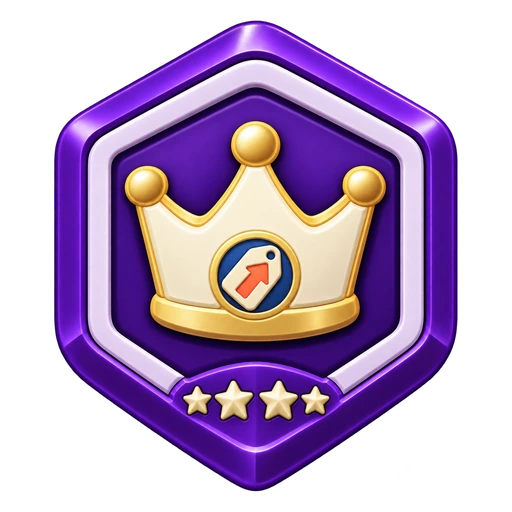
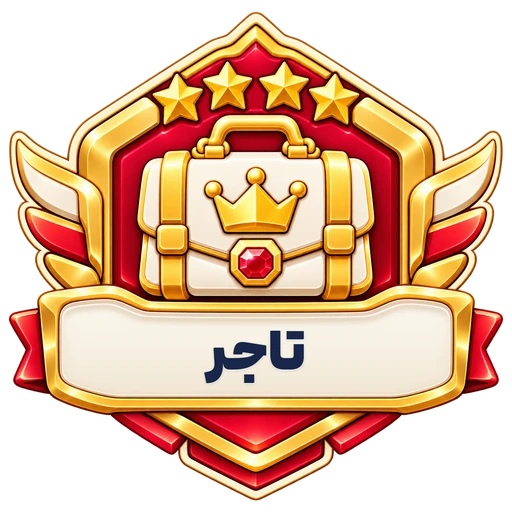
Play: badges-v3 in the game — قیمتشناس/تریدر/بازاری/تاجر art, no plates or name captions
- Checkpoints 5/10/15/20 use the owner's badges-v3 art (title inside the art), in star order:
  قیمتشناس ★, تریدر ★★, بازاری ★★★, تاجر ★★★★. Simulator titles renamed to match.
- No white card, plate or frame behind any badge; no name caption under it (alt text carries it;
  a failed image shows the title in a quiet tile).
- G04: «نشان {title} رو گرفتی!», next goal «{n} جواب درست تا {next} شدن», reward as a glass chip
  so it never reads as the yellow «ادامه بده».
- End 2: the badge image only. The «از x درصد…» line now uses the checkpoint's own
  comparisonPercent from config (50/70/90/99) instead of a placeholder.
- Share card: badge art without the frame or title plate.

Claude-Session: https://claude.ai/code/session_017xw4hEhMfbdKqsT1Ws2Qcb

diff --git a/src/views.js b/src/views.js
@@ -13,18 +13,19 @@ const SPIN = '<span class="q-spin" aria-hidden="true"></span>';
 /** Official DigiCoin asset downloaded from Digikala's own static asset endpoint. */
 export const COIN = '<img class="q-coin" src="assets/digicoin-game.svg" width="24" height="23" alt="" aria-hidden="true">';
 export const TAG = '<img class="q-logomark" src="assets/game-logo.webp" width="40" height="56" alt="" aria-hidden="true">';
-// ?v=2: the 2026-10-25 artwork reuses the old file names, so a cached old badge is never mistaken for the new one
-export const BADGE_SRC = id => `assets/badges/${encodeURIComponent(id)}.webp?v=2`;
+// ?v=3: the badges-v3 artwork (title inside the art) reuses the old file names, so a cached old badge is never shown
+export const BADGE_SRC = id => `assets/badges/${encodeURIComponent(id)}.webp?v=3`;
 export const BADGES = ['badge_5', 'badge_10', 'badge_15', 'badge_20'];
 /** A checkpoint's badge image; an unknown id (a checkpoint added later in A02) gets the badge of its position. */
 export const badgeId = (c, i) => BADGES.includes(c.badgeAssetId) ? c.badgeAssetId : BADGES[Math.min(BADGES.length - 1, Math.max(0, i))];
 export const TIER = [['#087f73', '#edf9f5'], ['#3457d5', '#eff3ff'], ['#b96813', '#fff6e9'], ['#7950bf', '#f6f0ff']];   // badge manifest accents
-/** Badge card (handoff 2026-10-25): text-free emblem above, the exact title as real text below, one shared frame for all
- *  tiers. The square art slot is reserved before the image loads; a failed image leaves a quiet tile, the title stays. */
+/** Badge (owner 2026-10-25, badges-v3): the art carries its own title, so there is no frame, no white plate and no name
+ *  caption; the title is the image's alt text. The square slot is reserved before the image loads; a failed image leaves a
+ *  quiet tile with the title as text, so it is never an unexplained blank. */
 export function badge(c, i, cls = '', threshold = false) {
   const [a, t] = TIER[Math.min(TIER.length - 1, Math.max(0, i))];
-  return `<figure class="q-badgecard ${cls}" style="--badge-accent:${a};--badge-tint:${t}"><span class="q-badgecard__art"><img src="${BADGE_SRC(badgeId(c, i))}" width="512" height="512" alt="" decoding="async"></span>` +
-    `<figcaption><b>${esc(c.title)}</b>${threshold ? `<span>${fa(c.requiredCorrect)} جواب درست</span><span class="q-badgecard__reward${c.rewardAmount > 0 ? ' is-coin' : ''}">${c.rewardAmount > 0 ? `${fa(c.rewardAmount)} دیجیکوین جایزه` : 'فقط نشان'}</span>` : ''}</figcaption></figure>`;
+  return `<figure class="q-badgecard ${cls}" style="--badge-accent:${a};--badge-tint:${t}"><span class="q-badgecard__art" data-title="${esc(c.title)}"><img src="${BADGE_SRC(badgeId(c, i))}" width="512" height="512" alt="${esc(c.title)}" decoding="async"></span>` +
+    (threshold ? `<figcaption><span>${fa(c.requiredCorrect)} جواب درست</span><span class="q-badgecard__reward${c.rewardAmount > 0 ? ' is-coin' : ''}">${c.rewardAmount > 0 ? `${fa(c.rewardAmount)} دیجیکوین جایزه` : 'فقط نشان'}</span></figcaption>` : '') + '</figure>';
 }
 
 
@@ -181,8 +182,8 @@ export const TOUR = [
 ];
 const HAND = '<svg viewBox="0 0 48 48" width="44" height="44" aria-hidden="true"><path d="M18 22V9a4 4 0 0 1 8 0v11l9.6 1.6A5 5 0 0 1 40 27.5L38 39a6 6 0 0 1-6 5H22a6 6 0 0 1-4.8-2.4L9.5 31.3a3.6 3.6 0 0 1 5.2-5L18 29Z" fill="#fff"/><path d="M18 22V9a4 4 0 0 1 8 0v11l9.6 1.6A5 5 0 0 1 40 27.5L38 39a6 6 0 0 1-6 5H22a6 6 0 0 1-4.8-2.4L9.5 31.3a3.6 3.6 0 0 1 5.2-5L18 29Z" fill="none" stroke="#1d2a5c" stroke-width="2.4" stroke-linejoin="round"/></svg>';
 export function tour(still, from) {
-  const cps = [{ requiredCorrect: 1, rewardAmount: 0, badgeAssetId: 'badge_5', title: 'بازاری تازهکار' }, { requiredCorrect: 3, rewardAmount: 1, badgeAssetId: 'badge_10', title: 'بازاری قدیمی' },
-    { requiredCorrect: 6, rewardAmount: 3, badgeAssetId: 'badge_15', title: 'قیمتشناس حرفهای' }, { requiredCorrect: 10, rewardAmount: 5, badgeAssetId: 'badge_20', title: 'قیمتشناس اعظم' }];
+  const cps = [{ requiredCorrect: 1, rewardAmount: 0, badgeAssetId: 'badge_5', title: 'قیمتشناس' }, { requiredCorrect: 3, rewardAmount: 1, badgeAssetId: 'badge_10', title: 'تریدر' },
+    { requiredCorrect: 6, rewardAmount: 3, badgeAssetId: 'badge_15', title: 'بازاری' }, { requiredCorrect: 10, rewardAmount: 5, badgeAssetId: 'badge_20', title: 'تاجر' }];
   const ref = { displayTitle: 'ماگ سرامیکی', imageUrl: 'demo:first', art: DEMO_MUG, price: 245000 };
   const cmp = { displayTitle: 'هدفون بیسیم', imageUrl: 'demo:second', art: DEMO_HEADPHONES };
   const segs = TOUR.map(() => '<i><b></b></i>').join('');
@@ -315,14 +316,14 @@ export function leaveSheet(m) {
  * continue, no second «دریافت» step: the reward was registered by the server with the answer that crossed the line.
  */
 export function cpOverlay(c, index, reward, next) {
-  const head = `${esc(c.title)} رو گرفتی!`;   // factual: no population percentile is measured, so none is claimed
+  const head = `نشان ${esc(c.title)} رو گرفتی!`;   // factual: no population percentile is measured, so none is claimed
   const amount = c.rewardAmount > 0 ? c.rewardAmount : 0;
   const late = reward && reward.status === 'delayed' ? '<small>واریزش کمی طول میکشه</small>' : '';
   return `<div class="q-cp tier-${index}" role="dialog" aria-modal="true" aria-labelledby="cp-t" aria-describedby="cp-d"><div class="q-cp__in">` +
     `${badge(c,index,'q-cp__badge')}` +
     `<h2 class="q-cp__h" id="cp-t">${head}</h2><p class="q-cp__n" id="cp-d">${fa(c.requiredCorrect)} جواب درست دادی</p>` +
     (amount ? `<p class="q-cp__rw">${COIN}<span>${fa(amount)} دیجیکوین جایزه</span>${late}</p>` : '') +
-    `<p class="q-cp__next">${next ? `${fa(next.requiredCorrect - c.requiredCorrect)} جواب درست دیگه تا «${esc(next.title)}»` : 'همهی چکپوینتها رو گرفتی؛ دست ادامه داره.'}</p>` +
+    `<p class="q-cp__next">${next ? `${fa(next.requiredCorrect - c.requiredCorrect)} جواب درست تا ${esc(next.title)} شدن` : 'همهی چکپوینتها رو گرفتی؛ دست ادامه داره.'}</p>` +
     `</div><div class="q-foot">${PRIMARY('ادامه بده', ' data-act="cp-go"', I.fwd)}</div></div>`;
 }
 
@@ -368,7 +369,7 @@ export const dealsOf = list => (list?.items || []).filter(p => p.deal && (p.deal
 export function vEnd(m) {
   const rows = [`<div class="q-end__row"><span>امتیاز</span><b>${fa(m.score)}</b></div>`];
   if (!m.newRecord) rows.push(`<div class="q-end__row"><span>رکورد</span><b>${fa(m.best)}</b></div>`);
-  if (m.cp) rows.push(`<div class="q-end__row q-end__row--badge"><span>نشان</span><span class="q-end__badge"><img src="${BADGE_SRC(badgeId(m.cp, m.cpIndex))}" alt="" width="40" height="40"><b>${esc(m.cp.title)}</b></span></div>`);
+  if (m.cp) rows.push(`<div class="q-end__row q-end__row--badge"><span>نشان</span><span class="q-end__badge"><img src="${BADGE_SRC(badgeId(m.cp, m.cpIndex))}" alt="${esc(m.cp.title)}" width="64" height="64"></span></div>`);
   const better = m.better != null ? `<p class="q-end__better">از ${fa(m.better)} درصد دیجیکالاییها بهتری!</p>` : '';
   const deals = m.deals.slice(0, 4);
   const dealsSec = m.dealsState === 'ready' && !deals.length ? '' :

diff --git a/src/share.js b/src/share.js
@@ -1,6 +1,6 @@
 // Exact text is painted with the local font; shared cards never depend on catalog images or cross-origin canvas data.
 import { fa } from './fmt.js';
-import { BADGES, BADGE_SRC, TIER } from './views.js';
+import { BADGES, BADGE_SRC } from './views.js';
 export const GAME_URL = 'https://amasn-a.github.io/gheimat-shenas-play/';
 const load = src => new Promise((resolve,reject)=>{const im=new Image();im.onload=()=>resolve(im);im.onerror=reject;im.src=src;});
 const rounded = (c,x,y,w,h,r,fill)=>{c.fillStyle=fill;c.beginPath();c.roundRect(x,y,w,h,r);c.fill();};
@@ -24,11 +24,9 @@ export async function createShareCard({score,title,badgeAssetId}) {
   c.textAlign='center';c.fillStyle='#565a70';c.font='600 32px Digikala';c.fillText('نتیجهٔ این دست',sx,768);
   c.fillStyle='#15162c';c.font='800 142px Digikala';c.fillText(fa(score),sx,912);
   c.font='700 30px Digikala';c.fillText('جواب درست دادم',sx,975);
-  if(earned){   // the badge card: emblem above, the real title below, inside one frame (as in the game)
-    const [accent,tint]=TIER[Math.min(TIER.length-1,tier)];
-    rounded(c,640,704,330,376,32,tint);c.lineWidth=3;c.strokeStyle=accent;c.beginPath();c.roundRect(641.5,705.5,327,373,31);c.stroke();
-    if(mark)c.drawImage(mark,705,722,200,200);
-    rounded(c,662,944,286,112,22,'#ffffff');c.fillStyle='#15162c';let fs=32;do{c.font=`800 ${fs}px Digikala`;}while(c.measureText(title).width>254&&--fs>18);c.fillText(title,805,1012);
+  if(earned){   // badges-v3: the art carries its own title, so no frame or plate (as in the game); the title is drawn only if the art fails
+    if(mark)c.drawImage(mark,630,709,366,366);
+    else{c.fillStyle='#fff';let fs=40;do{c.font=`900 ${fs}px Digikala`;}while(c.measureText(title).width>320&&--fs>18);c.fillText(title,805,912);}
   }else if(!title){c.fillStyle='#cdd2f4';c.font='600 30px Digikala';c.fillText('تو چند تا قیمت رو درست حدس میزنی؟',540,1090);}
   else{rounded(c,260,1059,560,65,20,'#4055ed');c.fillStyle='#fff';c.font='800 31px Digikala';c.fillText(title,540,1103);}
   // shortcut: share-qr.png is a pre-made QR of GAME_URL; regenerate it if GAME_URL changes (the Super App build will use its own link)

diff --git a/src/game.js b/src/game.js
@@ -149,8 +149,6 @@ function lossScreen() {
   const under = (S.fb ? feedback() : S.ref && S.run ? ready() : '').replace('<div class="q-page', '<div inert class="q-page');
   return under + V.offerModal({ cost: S.offer ? S.offer.cost : cfg().continueRule.cost, balance: S.balance, state: S.ui.skipping ? 'ending' : st, left });
 }
-// shortcut: placeholder share per checkpoint position (owner 2026-10-25, prototype-only) until the real figures are supplied
-const BETTER = [50, 70, 85, 95];
 function endScreen() {
   const v = S.view, run = S.run, score = run ? run.score : 0, cost = S.offer ? S.offer.cost : cfg().continueRule.cost;
   const before = (S.boot && S.boot.record) || 0, newRecord = score > 0 && score > before;
@@ -160,7 +158,8 @@ function endScreen() {
     'G06.REFUNDED': V.status('ok', `ادامه ممکن نشد؛ ${fa(cost)} دیجیکوین به حسابت برگشت.`, 'check') }[v] || '';
   const R = S.result, code = R && R.campaignCode && R.campaignCode.status !== 'sold_out' ? V.codeCard(R.campaignCode, S.ui.codeState === 'copied') : '';
   return V.vEnd({ title: newRecord ? 'رکوردتو زدی!' : cp ? 'ترکوندی!' : 'باختی!', score, best: Math.max(R ? R.record : 0, before, score), newRecord,
-    cp, cpIndex: ci, better: cp ? BETTER[Math.min(ci, BETTER.length - 1)] : null, deals: V.dealsOf(S.end && S.end.products), dealsState: S.end ? S.end.state : 'loading',
+    cp, cpIndex: ci, better: cp && cp.comparisonPercent != null ? cp.comparisonPercent : null,   // the checkpoint's own comparisonPercent (config: 50/70/90/99)
+    deals: V.dealsOf(S.end && S.end.products), dealsState: S.end ? S.end.state : 'loading',
     note, code, shareable: feat('share'), balance: S.balance, toast: S.ui.toast });
 }
 /** G12.DEALS: the seen products from the result screen's run, or from the latest finished run when opened from home. */

diff --git a/styles/game-ui.css b/styles/game-ui.css
@@ -568,3 +568,19 @@ body #app.gu, body.pe-play #app.gu, body.pe-play:not(.pe-dev) #app.gu, .pe-dev #
   .gu .q-tour__hand, .gu .q-tour .q-ab, .gu .q-offer, .gu .q-offer__burst i { animation: none !important; }
   .gu .q-tour[data-beat="4"] .q-tour__hand { transform: none; }
 }
+
+/* ---------------------------------------------------------------- badges-v3 (owner 2026-10-25)
+   The art carries its own title: no white card or plate behind any badge and no name caption under it. */
+.gu .q-badgecard { background: transparent !important; border: 0 !important; box-shadow: none !important; padding: 0 !important; }
+.gu .q-badgecard figcaption { background: transparent; }
+.gu .q-badgecard__art { background: transparent; border-radius: 0; }
+.gu .q-badgecard__art.is-failed { border-radius: 24px; background: rgba(255, 255, 255, .1); box-shadow: none; }
+.gu .q-badgecard__art.is-failed::after { content: attr(data-title); color: #fff; font-weight: 900; font-size: 18px; }
+.gu .q-cp__badge { width: min(260px, 66vw); }
+.gu .q-cp__h { max-width: 20ch; text-wrap: balance; }
+.gu .q-cp__badge .q-badgecard__art { width: 100%; }
+/* the reward is information, not an action: a glass chip, never the yellow of «ادامه بده» */
+.gu .q-cp__rw { color: #fff; background: rgba(255, 255, 255, .14); }
+.gu .q-cp__rw small { color: var(--gu-ice); }
+.gu .q-end__badge img { width: 64px; height: 64px; }
+@media (max-height: 740px) { .gu .q-cp__badge { width: min(200px, 56vw); } .gu .q-end__badge img { width: 52px; height: 52px; } }

diff --git a/play/server.js b/play/server.js
@@ -19,10 +19,10 @@ const CFG = {
  offerMs: null, offerAcceptMs: null, paymentResolutionMs: 60_000,
   inactivityMs: 180_000, offerActivationMs: 180_000, timeoutGraceMs: 1_000, checkpointAutoContinueMs: 5_000,
   checkpoints: [
-    { id: 'cp_5', requiredCorrect: 5, title: 'بازاری تازهکار', badgeAssetId: 'badge_5', reward: 0, percent: 50 },
-    { id: 'cp_10', requiredCorrect: 10, title: 'بازاری قدیمی', badgeAssetId: 'badge_10', reward: 1, percent: 70 },
-    { id: 'cp_15', requiredCorrect: 15, title: 'قیمتشناس حرفهای', badgeAssetId: 'badge_15', reward: 3, percent: 90 },
-    { id: 'cp_20', requiredCorrect: 20, title: 'قیمتشناس اعظم', badgeAssetId: 'badge_20', reward: 5, percent: 99 },
+    { id: 'cp_5', requiredCorrect: 5, title: 'قیمتشناس', badgeAssetId: 'badge_5', reward: 0, percent: 50 },
+    { id: 'cp_10', requiredCorrect: 10, title: 'تریدر', badgeAssetId: 'badge_10', reward: 1, percent: 70 },
+    { id: 'cp_15', requiredCorrect: 15, title: 'بازاری', badgeAssetId: 'badge_15', reward: 3, percent: 90 },
+    { id: 'cp_20', requiredCorrect: 20, title: 'تاجر', badgeAssetId: 'badge_20', reward: 5, percent: 99 },
   ],
   continueRule: { enabled: true, cost: 5, cap: 1 },
   recordReward: 1, recordRewardAbove: 20,
